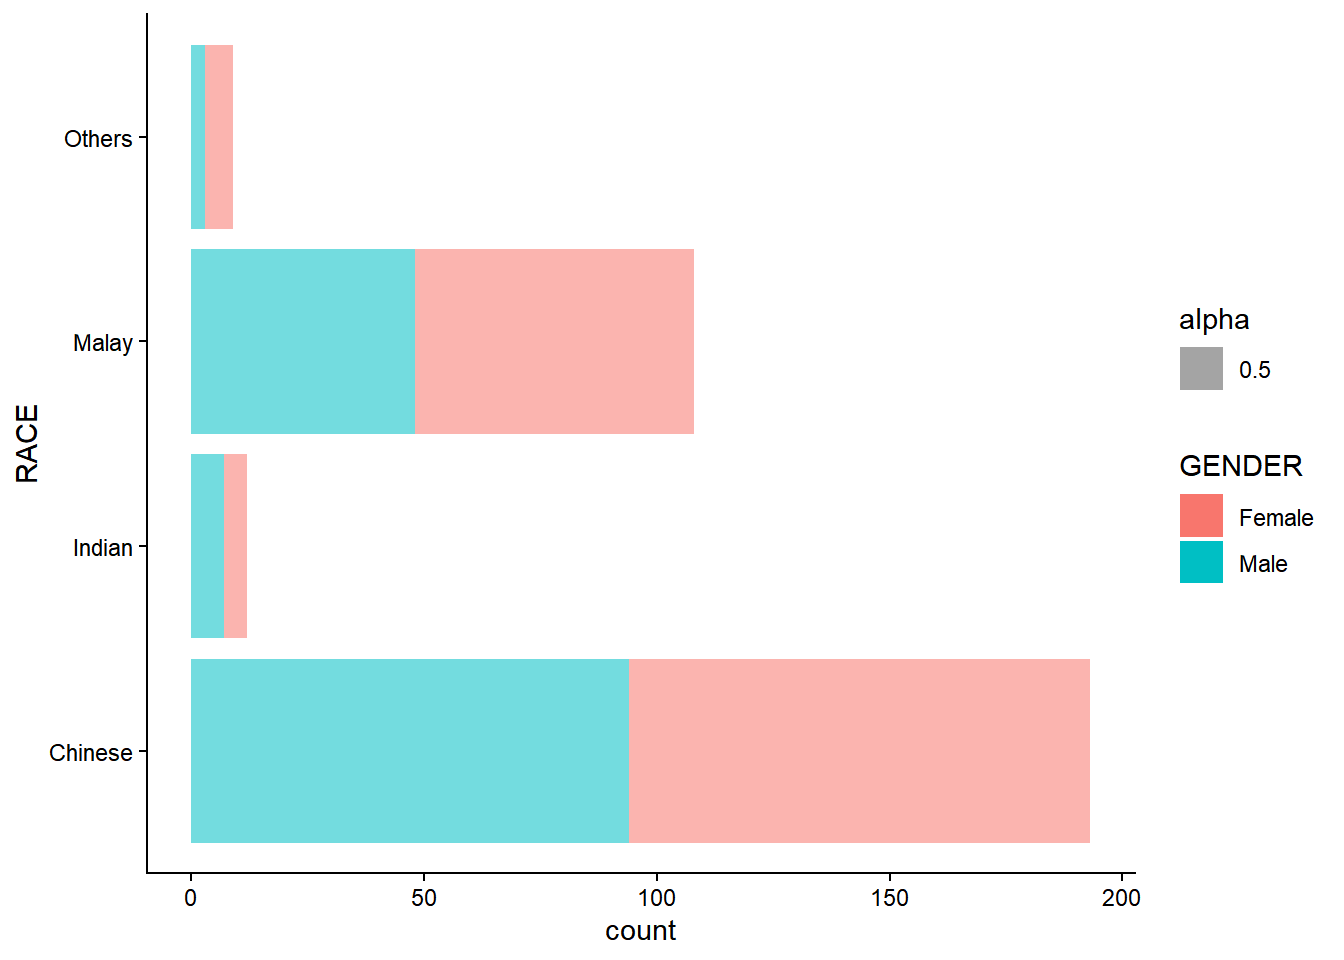
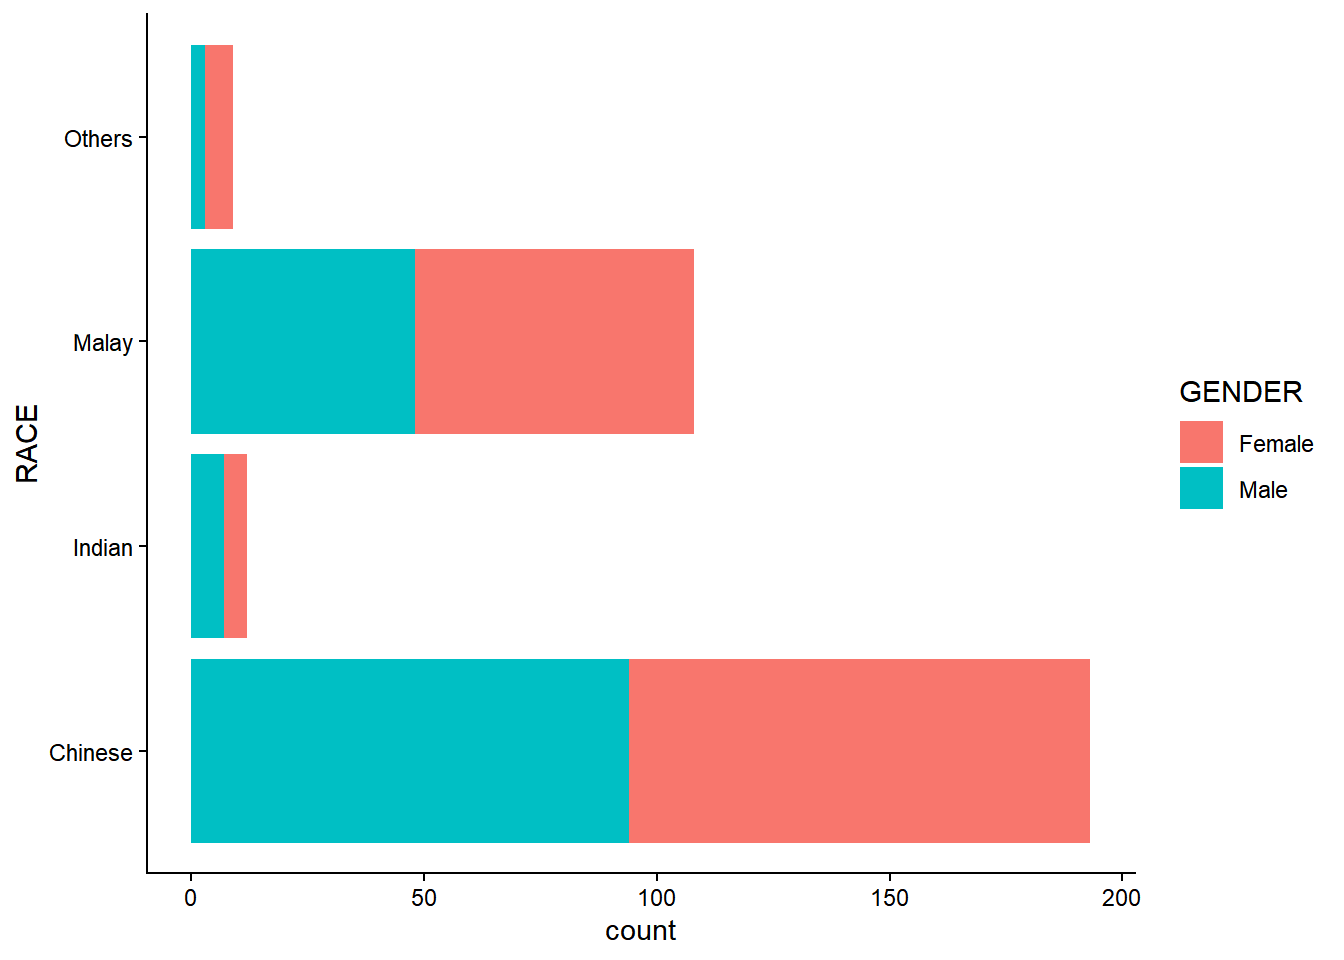
Fix: amend the fill colour in 1.11

Changed region(s): [[0.125, 0.0312, 0.8125, 0.875], [0.875, 0.3125, 0.9688, 0.625]]

diff --git a/_site/Hands-on_Ex/Hands-on_Ex01/Hands-on_Ex01.html b/_site/Hands-on_Ex/Hands-on_Ex01/Hands-on_Ex01.html
@@ -1151,7 +1151,7 @@ Important
 <span>        <span class="fu">geom_point</span><span class="op">(</span><span class="op">)</span> <span class="op">+</span></span>
 <span>        <span class="fu">geom_smooth</span><span class="op">(</span>method<span class="op">=</span><span class="va">lm</span>, size <span class="op">=</span> <span class="fl">0.5</span><span class="op">)</span> <span class="op">+</span></span>
 <span>  <span class="fu">coord_cartesian</span><span class="op">(</span>xlim <span class="op">=</span> <span class="fu"><a href="https://rdrr.io/r/base/c.html">c</a></span><span class="op">(</span><span class="fl">0</span>,<span class="fl">100</span><span class="op">)</span>, ylim<span class="op">=</span> <span class="fu"><a href="https://rdrr.io/r/base/c.html">c</a></span><span class="op">(</span><span class="fl">0</span>,<span class="fl">100</span><span class="op">)</span><span class="op">)</span> <span class="op">+</span></span>
-<span>        <span class="fu">coord_fixed</span><span class="op">(</span>ratio<span class="op">=</span><span class="fl">1.78</span><span class="op">)</span></span></code></pre></div><button title="Copy to Clipboard" class="code-copy-button"><i class="bi"></i></button></div>
+<span>        <span class="fu">coord_fixed</span><span class="op">(</span>ratio<span class="op">=</span><span class="fl">0.8</span><span class="op">)</span></span></code></pre></div><button title="Copy to Clipboard" class="code-copy-button"><i class="bi"></i></button></div>
 <div class="cell-output-display">
 <div>
 <figure class="figure"><p><img src="Hands-on_Ex01_files/figure-html/unnamed-chunk-36-1.png" class="img-fluid figure-img" width="672"></p>
@@ -1167,7 +1167,7 @@ Important
 <span class="header-section-number">11.1</span> Working wth themes</h3>
 <p><code>theme_grey()</code> is the default theme with background colour in grey.</p>
 <div class="cell">
-<div class="code-copy-outer-scaffold"><div class="sourceCode" id="cb37"><pre class="downlit sourceCode r code-with-copy"><code class="sourceCode R"><span><span class="fu">ggplot</span><span class="op">(</span><span class="va">exam_data</span>, <span class="fu">aes</span><span class="op">(</span>x<span class="op">=</span><span class="va">RACE</span>, fill<span class="op">=</span><span class="va">RACE</span>, alpha<span class="op">=</span><span class="fl">0.5</span><span class="op">)</span><span class="op">)</span> <span class="op">+</span></span>
+<div class="code-copy-outer-scaffold"><div class="sourceCode" id="cb37"><pre class="downlit sourceCode r code-with-copy"><code class="sourceCode R"><span><span class="fu">ggplot</span><span class="op">(</span><span class="va">exam_data</span>, <span class="fu">aes</span><span class="op">(</span>x<span class="op">=</span><span class="va">RACE</span><span class="op">)</span><span class="op">)</span> <span class="op">+</span></span>
 <span>  <span class="fu">geom_bar</span><span class="op">(</span><span class="op">)</span> <span class="op">+</span></span>
 <span>  <span class="fu">coord_flip</span><span class="op">(</span><span class="op">)</span> <span class="op">+</span> </span>
 <span>  <span class="fu">theme_grey</span><span class="op">(</span><span class="op">)</span></span></code></pre></div><button title="Copy to Clipboard" class="code-copy-button"><i class="bi"></i></button></div>
@@ -1180,7 +1180,7 @@ Important
 </div>
 <p>The colour theme could be changed to classic where background in white and gridlines removed by using theme_classic().</p>
 <div class="cell">
-<div class="code-copy-outer-scaffold"><div class="sourceCode" id="cb38"><pre class="downlit sourceCode r code-with-copy"><code class="sourceCode R"><span><span class="fu">ggplot</span><span class="op">(</span><span class="va">exam_data</span>, <span class="fu">aes</span><span class="op">(</span>x<span class="op">=</span><span class="va">RACE</span>,fill <span class="op">=</span> <span class="va">GENDER</span>, alpha<span class="op">=</span><span class="fl">0.5</span><span class="op">)</span><span class="op">)</span> <span class="op">+</span> </span>
+<div class="code-copy-outer-scaffold"><div class="sourceCode" id="cb38"><pre class="downlit sourceCode r code-with-copy"><code class="sourceCode R"><span><span class="fu">ggplot</span><span class="op">(</span><span class="va">exam_data</span>, <span class="fu">aes</span><span class="op">(</span>x<span class="op">=</span><span class="va">RACE</span>,fill <span class="op">=</span> <span class="va">GENDER</span><span class="op">)</span><span class="op">)</span> <span class="op">+</span> </span>
 <span>  <span class="fu">geom_bar</span><span class="op">(</span><span class="op">)</span> <span class="op">+</span></span>
 <span>  <span class="fu">coord_flip</span><span class="op">(</span><span class="op">)</span> <span class="op">+</span></span>
 <span>  <span class="fu">theme_classic</span><span class="op">(</span><span class="op">)</span></span></code></pre></div><button title="Copy to Clipboard" class="code-copy-button"><i class="bi"></i></button></div>
@@ -1193,7 +1193,7 @@ Important
 </div>
 <p>Or the theme can be set to minimal.</p>
 <div class="cell">
-<div class="code-copy-outer-scaffold"><div class="sourceCode" id="cb39"><pre class="downlit sourceCode r code-with-copy"><code class="sourceCode R"><span><span class="fu">ggplot</span><span class="op">(</span><span class="va">exam_data</span>, <span class="fu">aes</span><span class="op">(</span>x<span class="op">=</span><span class="va">RACE</span>, fill<span class="op">=</span><span class="va">CLASS</span>, alpha <span class="op">=</span> <span class="fl">0.5</span><span class="op">)</span><span class="op">)</span> <span class="op">+</span> </span>
+<div class="code-copy-outer-scaffold"><div class="sourceCode" id="cb39"><pre class="downlit sourceCode r code-with-copy"><code class="sourceCode R"><span><span class="fu">ggplot</span><span class="op">(</span><span class="va">exam_data</span>, <span class="fu">aes</span><span class="op">(</span>x<span class="op">=</span><span class="va">RACE</span><span class="op">)</span><span class="op">)</span> <span class="op">+</span> </span>
 <span>  <span class="fu">geom_bar</span><span class="op">(</span><span class="op">)</span> <span class="op">+</span></span>
 <span>  <span class="fu">coord_flip</span><span class="op">(</span><span class="op">)</span> <span class="op">+</span></span>
 <span>  <span class="fu">theme_minimal</span><span class="op">(</span><span class="op">)</span></span></code></pre></div><button title="Copy to Clipboard" class="code-copy-button"><i class="bi"></i></button></div>
@@ -1206,7 +1206,7 @@ Important
 </div>
 <p>Or the theme can be set to light.</p>
 <div class="cell">
-<div class="code-copy-outer-scaffold"><div class="sourceCode" id="cb40"><pre class="downlit sourceCode r code-with-copy"><code class="sourceCode R"><span><span class="fu">ggplot</span><span class="op">(</span><span class="va">exam_data</span>, <span class="fu">aes</span><span class="op">(</span>x<span class="op">=</span><span class="va">RACE</span>,fill<span class="op">=</span><span class="va">CLASS</span>, alpha <span class="op">=</span> <span class="fl">0.5</span><span class="op">)</span><span class="op">)</span> <span class="op">+</span> </span>
+<div class="code-copy-outer-scaffold"><div class="sourceCode" id="cb40"><pre class="downlit sourceCode r code-with-copy"><code class="sourceCode R"><span><span class="fu">ggplot</span><span class="op">(</span><span class="va">exam_data</span>, <span class="fu">aes</span><span class="op">(</span>x<span class="op">=</span><span class="va">RACE</span><span class="op">)</span><span class="op">)</span> <span class="op">+</span> </span>
 <span>  <span class="fu">geom_bar</span><span class="op">(</span><span class="op">)</span> <span class="op">+</span></span>
 <span>  <span class="fu">coord_flip</span><span class="op">(</span><span class="op">)</span> <span class="op">+</span></span>
 <span>  <span class="fu">theme_light</span><span class="op">(</span><span class="op">)</span></span></code></pre></div><button title="Copy to Clipboard" class="code-copy-button"><i class="bi"></i></button></div>
@@ -1219,8 +1219,8 @@ Important
 </div>
 <p>Or the theme can be set to test.</p>
 <div class="cell">
-<div class="code-copy-outer-scaffold"><div class="sourceCode" id="cb41"><pre class="downlit sourceCode r code-with-copy"><code class="sourceCode R"><span><span class="fu">ggplot</span><span class="op">(</span><span class="va">exam_data</span>, <span class="fu">aes</span><span class="op">(</span>x<span class="op">=</span><span class="va">RACE</span>,fill<span class="op">=</span><span class="va">CLASS</span><span class="op">)</span><span class="op">)</span> <span class="op">+</span> </span>
-<span>  <span class="fu">geom_bar</span><span class="op">(</span>alpha<span class="op">=</span><span class="fl">0.5</span><span class="op">)</span> <span class="op">+</span></span>
+<div class="code-copy-outer-scaffold"><div class="sourceCode" id="cb41"><pre class="downlit sourceCode r code-with-copy"><code class="sourceCode R"><span><span class="fu">ggplot</span><span class="op">(</span><span class="va">exam_data</span>, <span class="fu">aes</span><span class="op">(</span>x<span class="op">=</span><span class="va">CLASS</span>,fill<span class="op">=</span><span class="va">RACE</span><span class="op">)</span><span class="op">)</span> <span class="op">+</span> </span>
+<span>  <span class="fu">geom_bar</span><span class="op">(</span><span class="op">)</span> <span class="op">+</span></span>
 <span>  <span class="fu">coord_flip</span><span class="op">(</span><span class="op">)</span> <span class="op">+</span></span>
 <span>  <span class="fu">scale_fill_brewer</span><span class="op">(</span>palette<span class="op">=</span><span class="st">"Paired"</span><span class="op">)</span> <span class="op">+</span></span>
 <span>  <span class="fu">theme_test</span><span class="op">(</span><span class="op">)</span></span></code></pre></div><button title="Copy to Clipboard" class="code-copy-button"><i class="bi"></i></button></div>
